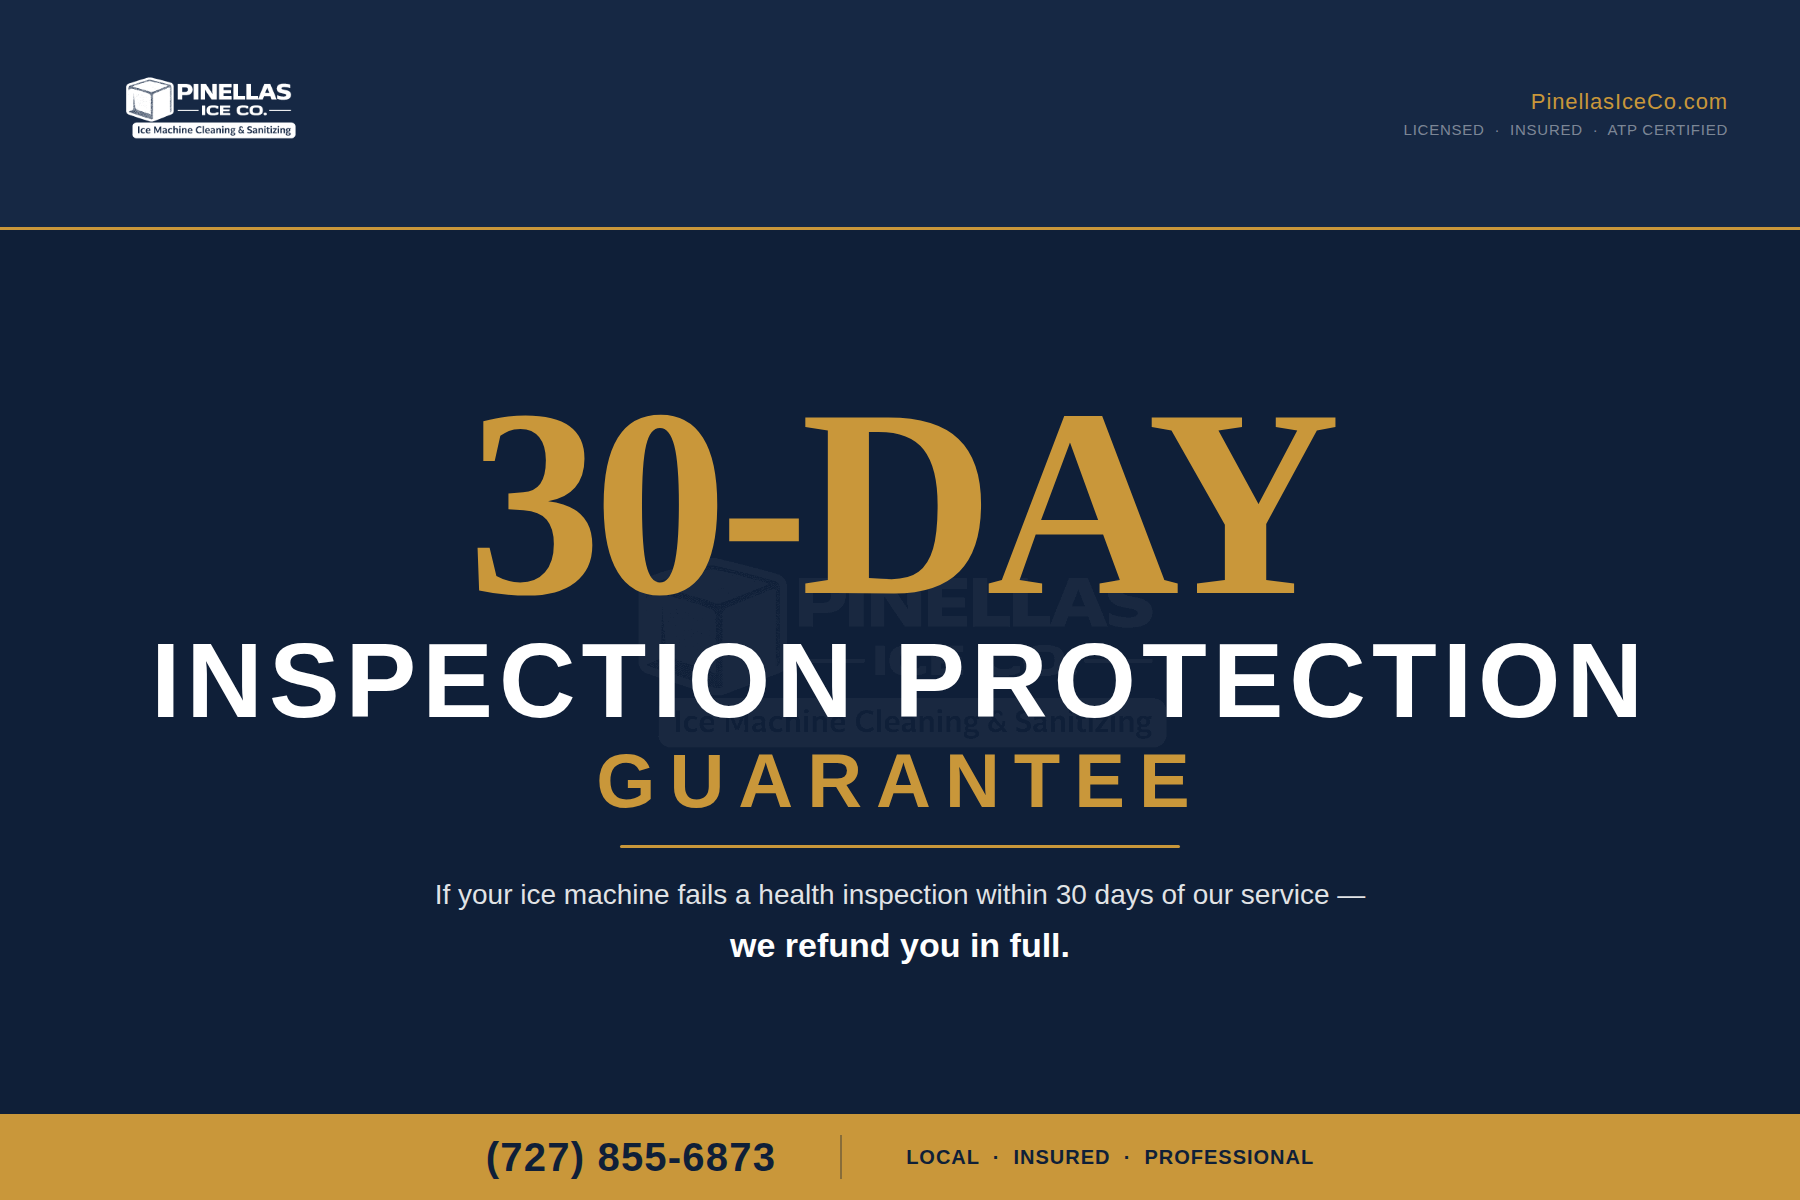
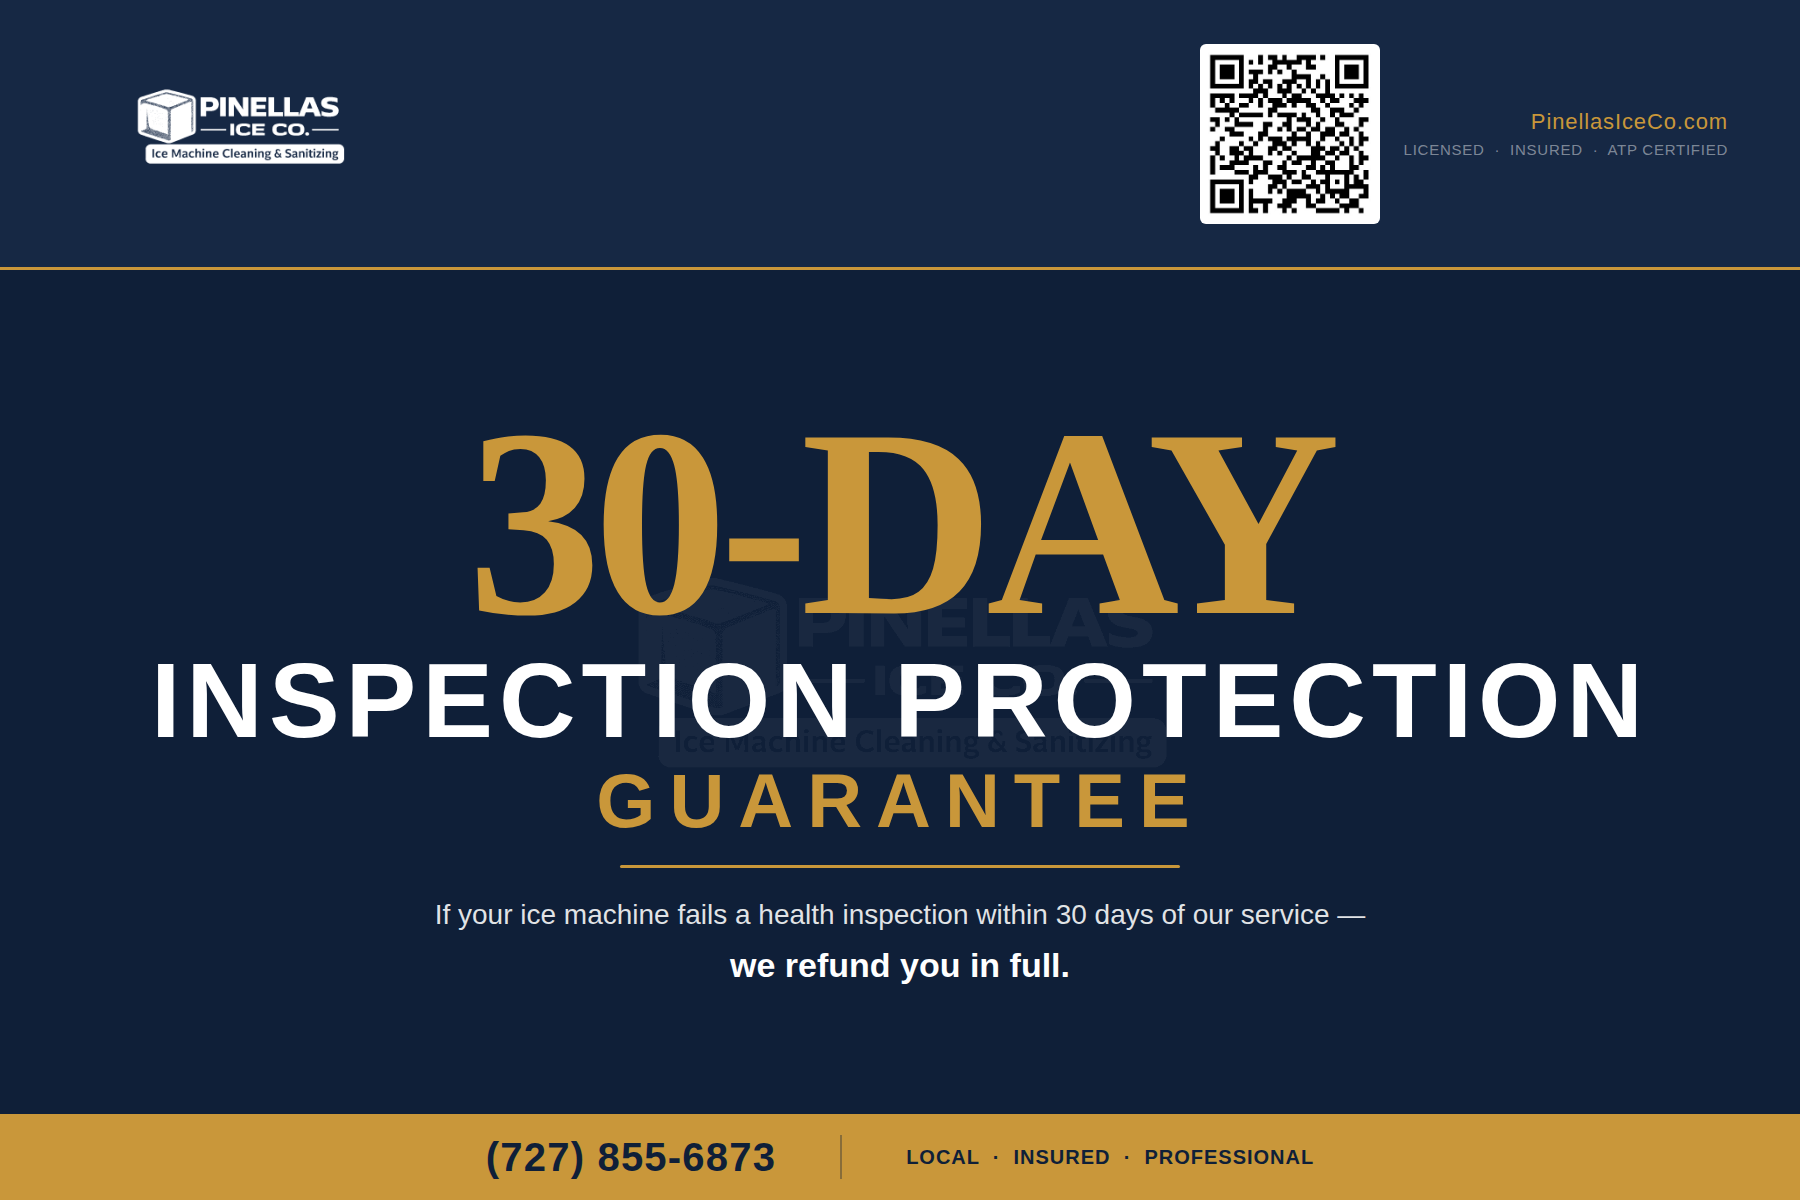
Guarantee card — actual sticker image, QR on front, trust statement
Front: logo taller (224px in 270px bar), QR code added to top-right corner.
Back: replace CSS sticker mockup with actual sticker PNG, scan label
changed to "Scan to Learn More", URL removed, trust statement added
below How to Claim ("Serving Restaurants, Bars & Golf Courses throughout
Pinellas County").

https://claude.ai/code/session_01Mn93akvGVyVHw7hbop2nTq

diff --git a/docs/guarantee-card/render.py b/docs/guarantee-card/render.py
@@ -20,9 +20,10 @@ def b64(rel_path: str, mime: str) -> str:
     with open(p, 'rb') as f:
         return f"data:{mime};base64,{base64.b64encode(f.read()).decode()}"
 
-LOGO = b64('IMG_0110.png',  'image/png')    # Full wordmark logo
-ICON = b64('IMG_0037.jpeg', 'image/jpeg')   # Ice cube icon only
-QR   = b64('IMG_0738.jpeg', 'image/jpeg')   # QR code → explore page
+LOGO    = b64('IMG_0110.png',  'image/png')    # Full wordmark logo
+ICON    = b64('IMG_0037.jpeg', 'image/jpeg')   # Ice cube icon only
+QR      = b64('IMG_0738.jpeg', 'image/jpeg')   # QR code → explore page
+STICKER = b64('3B82805F-8BA4-42EA-98C1-92FC16CE7F84.png', 'image/png')  # Service sticker
 
 # ── Fonts ─────────────────────────────────────────────────────────────────────
 GFONTS = (
@@ -54,9 +55,9 @@ def make_front() -> str:
     flex-direction: column;
   }}
 
-  /* TOP BAR — tall enough for a real logo */
+  /* TOP BAR */
   .top-bar {{
-    width: 1800px; height: 230px;
+    width: 1800px; height: 270px;
     background: #162844;
     display: flex;
     align-items: center;
@@ -65,17 +66,30 @@ def make_front() -> str:
     flex-shrink: 0;
     border-bottom: 3px solid #c9973a;
   }}
-  .top-bar img {{
-    height: 184px;
-    max-width: 780px;
+  .top-bar-logo {{
+    height: 224px;
     object-fit: contain;
     object-position: left center;
     filter: brightness(0) invert(1);
     display: block;
   }}
   .top-bar-right {{
-    text-align: right;
+    display: flex;
+    align-items: center;
+    gap: 24px;
     flex-shrink: 0;
+  }}
+  .top-bar-qr {{
+    width: 180px; height: 180px;
+    background: #ffffff;
+    padding: 8px;
+    border-radius: 6px;
+    display: block;
+    object-fit: contain;
+    flex-shrink: 0;
+  }}
+  .top-bar-right-text {{
+    text-align: right;
   }}
   .top-bar-url {{
     font-family: 'Barlow', sans-serif;
@@ -211,12 +225,15 @@ def make_front() -> str:
 </head>
 <body>
 
-  <!-- TOP BAR — large logo -->
+  <!-- TOP BAR -->
   <div class="top-bar">
-    <img src="{LOGO}" alt="Pinellas Ice Co">
+    <img class="top-bar-logo" src="{LOGO}" alt="Pinellas Ice Co">
     <div class="top-bar-right">
-      <span class="top-bar-url">PinellasIceCo.com</span>
-      <span class="top-bar-sub">Licensed &nbsp;&middot;&nbsp; Insured &nbsp;&middot;&nbsp; ATP Certified</span>
+      <img class="top-bar-qr" src="{QR}" alt="QR code">
+      <div class="top-bar-right-text">
+        <span class="top-bar-url">PinellasIceCo.com</span>
+        <span class="top-bar-sub">Licensed &nbsp;&middot;&nbsp; Insured &nbsp;&middot;&nbsp; ATP Certified</span>
+      </div>
     </div>
   </div>
 
@@ -596,15 +613,27 @@ def make_back() -> str:
     font-size: 17px;
     color: #1456b0;
   }}
-  /* QR label */
-  .cr-qr-label {{
+  /* Sticker image */
+  .cr-sticker-img {{
+    width: 100%;
+    flex: 1;
+    object-fit: contain;
+    object-position: center top;
+    display: block;
+    min-height: 0;
+  }}
+  /* Trust statement */
+  .cc-trust {{
+    margin-top: 28px;
+    padding-top: 24px;
+    border-top: 1px solid #e0e0e0;
     font-family: 'Barlow', sans-serif;
     font-weight: 500;
-    font-size: 13px;
+    font-style: italic;
+    font-size: 18px;
     color: #5a6e87;
     text-align: center;
-    margin-top: 12px;
-    letter-spacing: 0.03em;
+    line-height: 1.65;
   }}
 </style>
 </head>
@@ -677,58 +706,19 @@ def make_back() -> str:
         immediately. No questions asked.
       </div>
     </div>
+    <div class="cc-trust">
+      Serving Restaurants, Bars &amp; Golf Courses<br>throughout Pinellas County.
+    </div>
   </div>
 
   <!-- RIGHT COLUMN -->
   <div class="col-right">
-    <div class="cr-scan-label">SCAN TO VERIFY</div>
+    <div class="cr-scan-label">SCAN TO LEARN MORE</div>
     <img class="cr-qr" src="{QR}" alt="QR code">
-    <div class="cr-qr-label">PinellasIceCo.com/verify</div>
 
     <div class="cr-divider"></div>
 
-    <!-- SERVICE STICKER MOCKUP -->
-    <div class="sticker-wrap">
-      <div class="sticker">
-        <div class="stk-logo-sect">
-          <img class="stk-logo-img" src="{LOGO}" alt="Pinellas Ice Co">
-        </div>
-        <div class="stk-dark">
-          <div class="stk-dark-text">Ice Machine Serviced &amp; Sanitized</div>
-        </div>
-        <div class="stk-body">
-          <div class="stk-field">
-            <span class="stk-field-lbl">Last Service:</span>
-            <div class="stk-field-line"></div>
-          </div>
-          <div class="stk-field">
-            <span class="stk-field-lbl">Next Service:</span>
-            <div class="stk-field-line"></div>
-          </div>
-          <div class="stk-atp-lbl">ATP Cleanliness Rating:</div>
-          <div class="stk-ratings">
-            <div class="stk-rating clean">
-              <div class="stk-rtitle">CLEAN<br>(&lt;100)</div>
-              <div class="stk-checkbox">&#x2611;</div>
-            </div>
-            <div class="stk-rating moderate">
-              <div class="stk-rtitle">MODERATE</div>
-              <div class="stk-rrange">(100&ndash;300)</div>
-            </div>
-            <div class="stk-rating high">
-              <div class="stk-rtitle">HIGH<br>(&gt;300)</div>
-              <div class="stk-checkbox">&#x2611;</div>
-            </div>
-          </div>
-        </div>
-        <div class="stk-call">
-          <div class="stk-phone">Call: (727) 855-6873</div>
-        </div>
-        <div class="stk-footer">
-          <div class="stk-footer-text">ATP Tested for Sanitation</div>
-        </div>
-      </div>
-    </div>
+    <img class="cr-sticker-img" src="{STICKER}" alt="Pinellas Ice Co Service Sticker">
   </div>
 
 </body>
